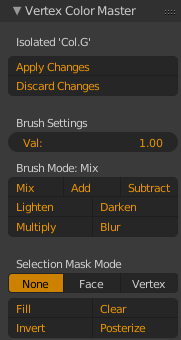
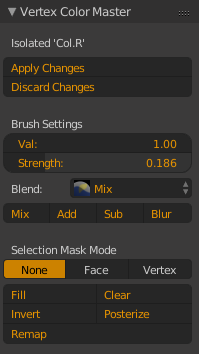
Update README.md and images

diff --git a/README.md b/README.md
@@ -9,10 +9,10 @@ An add-on for Blender that adds numerous features to assist working with vertex 
 5. Search for the add-on in the list (enter 'vertex' to quickly find it) and enable it.
 6. Save the user settings if you would like the script to always be enabled.
 
-__Note:__ If you are using a 2.79 based Buildbot version of Blender (available [here](https://builder.blender.org/download/)), you may use vertex color alpha, which must be enabled in the add-on preferences. To do this, click on the small arrow to the left of the add-on name in the Add-ons tab, and under Preferences enable 'Alpha Support'. If you don't have a compatible version of Blender, enabling alpha support will result in errors.
+__Note:__ If you are using a 2.79 based Buildbot version of Blender (available [here](https://builder.blender.org/download/)), you may use vertex color alpha, so you will see RGBA channels instead of just RGB as shown in the standard 2.79 release of Blender.
 
 ## Usage
-This add-on is mostly designed for people who use vertex colors as extra non-color data, such as artists making models for games, where such data can be useful for creating interesting shader effects, or for storing baked light data. The tools provided by this add-on allow the user to fill, invert or posterize individual color channels, as well as copy or swap channels between layers and exchange vertex weight data to and from color channels.
+This add-on is mostly designed for people who use vertex colors as extra non-color data, such as artists making models for games, where such data can be useful for creating interesting shader effects, or for storing baked light data. The tools provided by this add-on allow the user to fill, invert, posterize or remap individual color channels, as well as copy or swap channels between layers and exchange vertex weight and UV data to and from color channels.
 
 The add-on will appear in the Brush tab of the tools menu in vertex paint mode as shown in the following image.
 
@@ -38,7 +38,7 @@ When a single channel is selected, the option to isolate it and work in greyscal
 ![Isolate Mode](https://raw.githubusercontent.com/andyp123/blender_vertex_color_master/master/README_img/isolate_mode.png)
 
 ### Selection Mask Mode
-Selection mask mode sets the mask mode of the Fill, Invert and Posterize tools so they cn operate only on selected mesh elements.
+Selection mask mode sets the mask mode of the Fill, Invert, Posterize and Remap tools so they cn operate only on selected mesh elements.
 
 + __None__ - Do not use a selection mask.
 
@@ -113,8 +113,12 @@ Copy the weight value of the uv layer in the 'Src' layer to the 'Dst' channel.
 ### Src to UVs
 Copy the value of the 'Src' channel to the uv layer in the 'Dst' layer.
 
-## Planned Features
-* Improve alpha support:
-  - Auto detect support instead of enabling it in preferences.
-  - Enable RGB channels in Active Channels by default.
-* Add more operator inputs to the Redo panel.
+## Planned / Possible Features
+* Break script into full Add-on.
+* Move Add-on to own tab.
+* Clean up workflow for filling etc.
+* Optimisations of channel masked functions.
+* Add shortcut to bake AO.
+* Add function to do quick gradient shading.
+* Add function to set UV shells to random colors.
+* Add function to bake curvature to colors.
